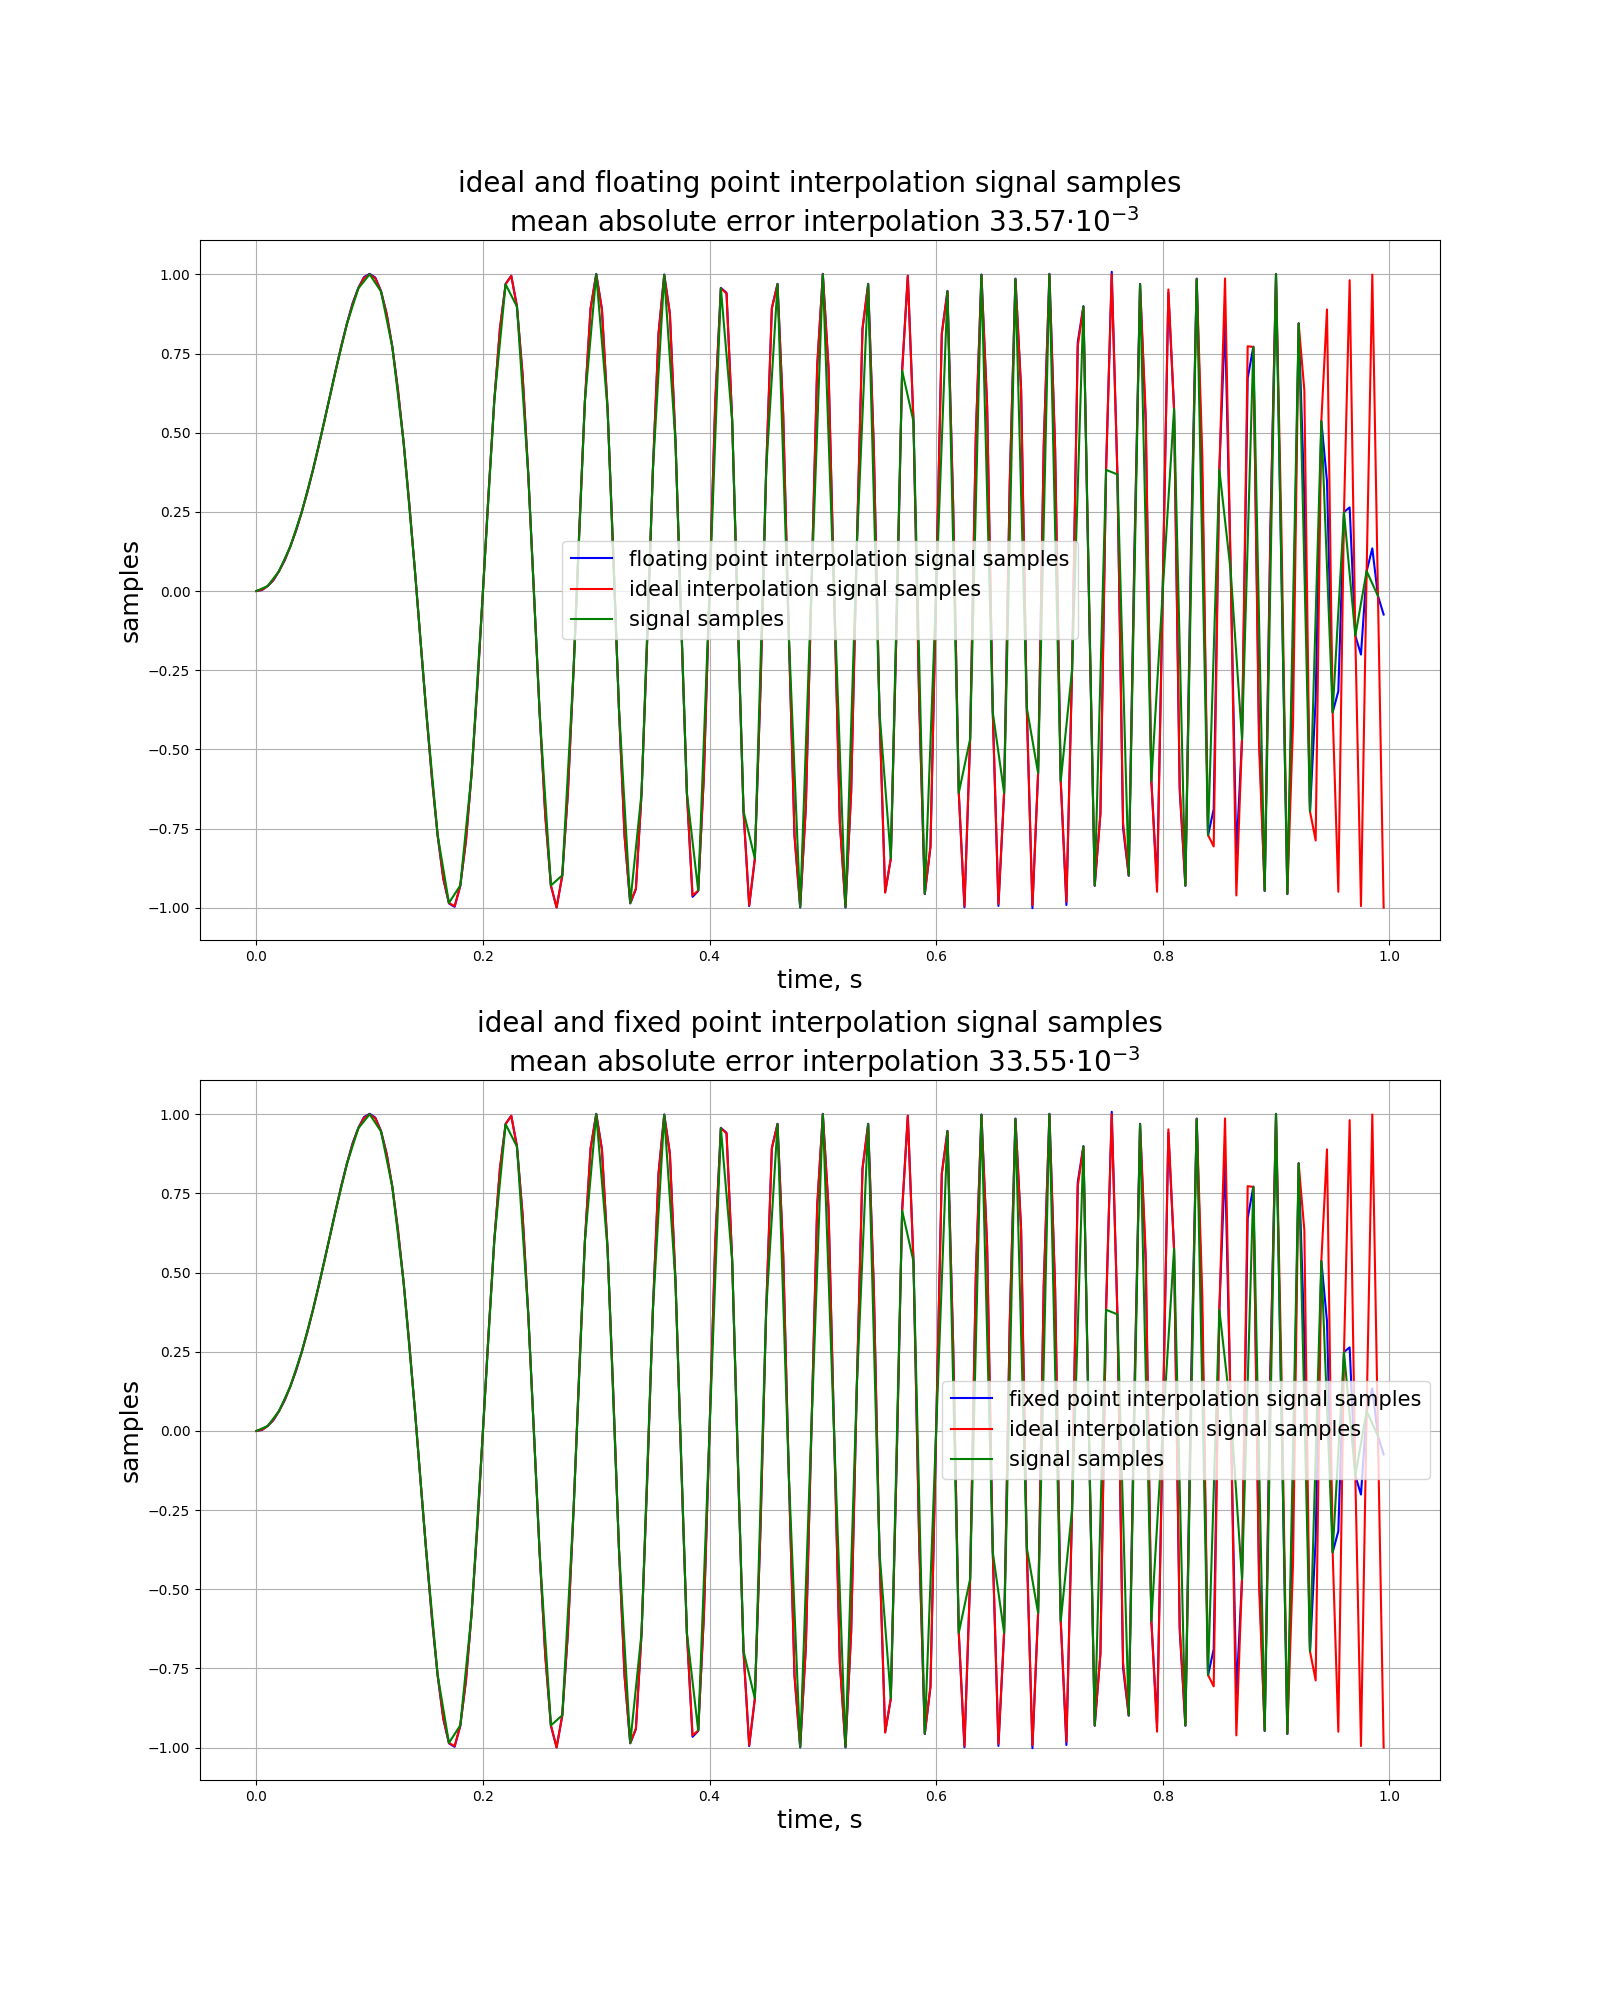
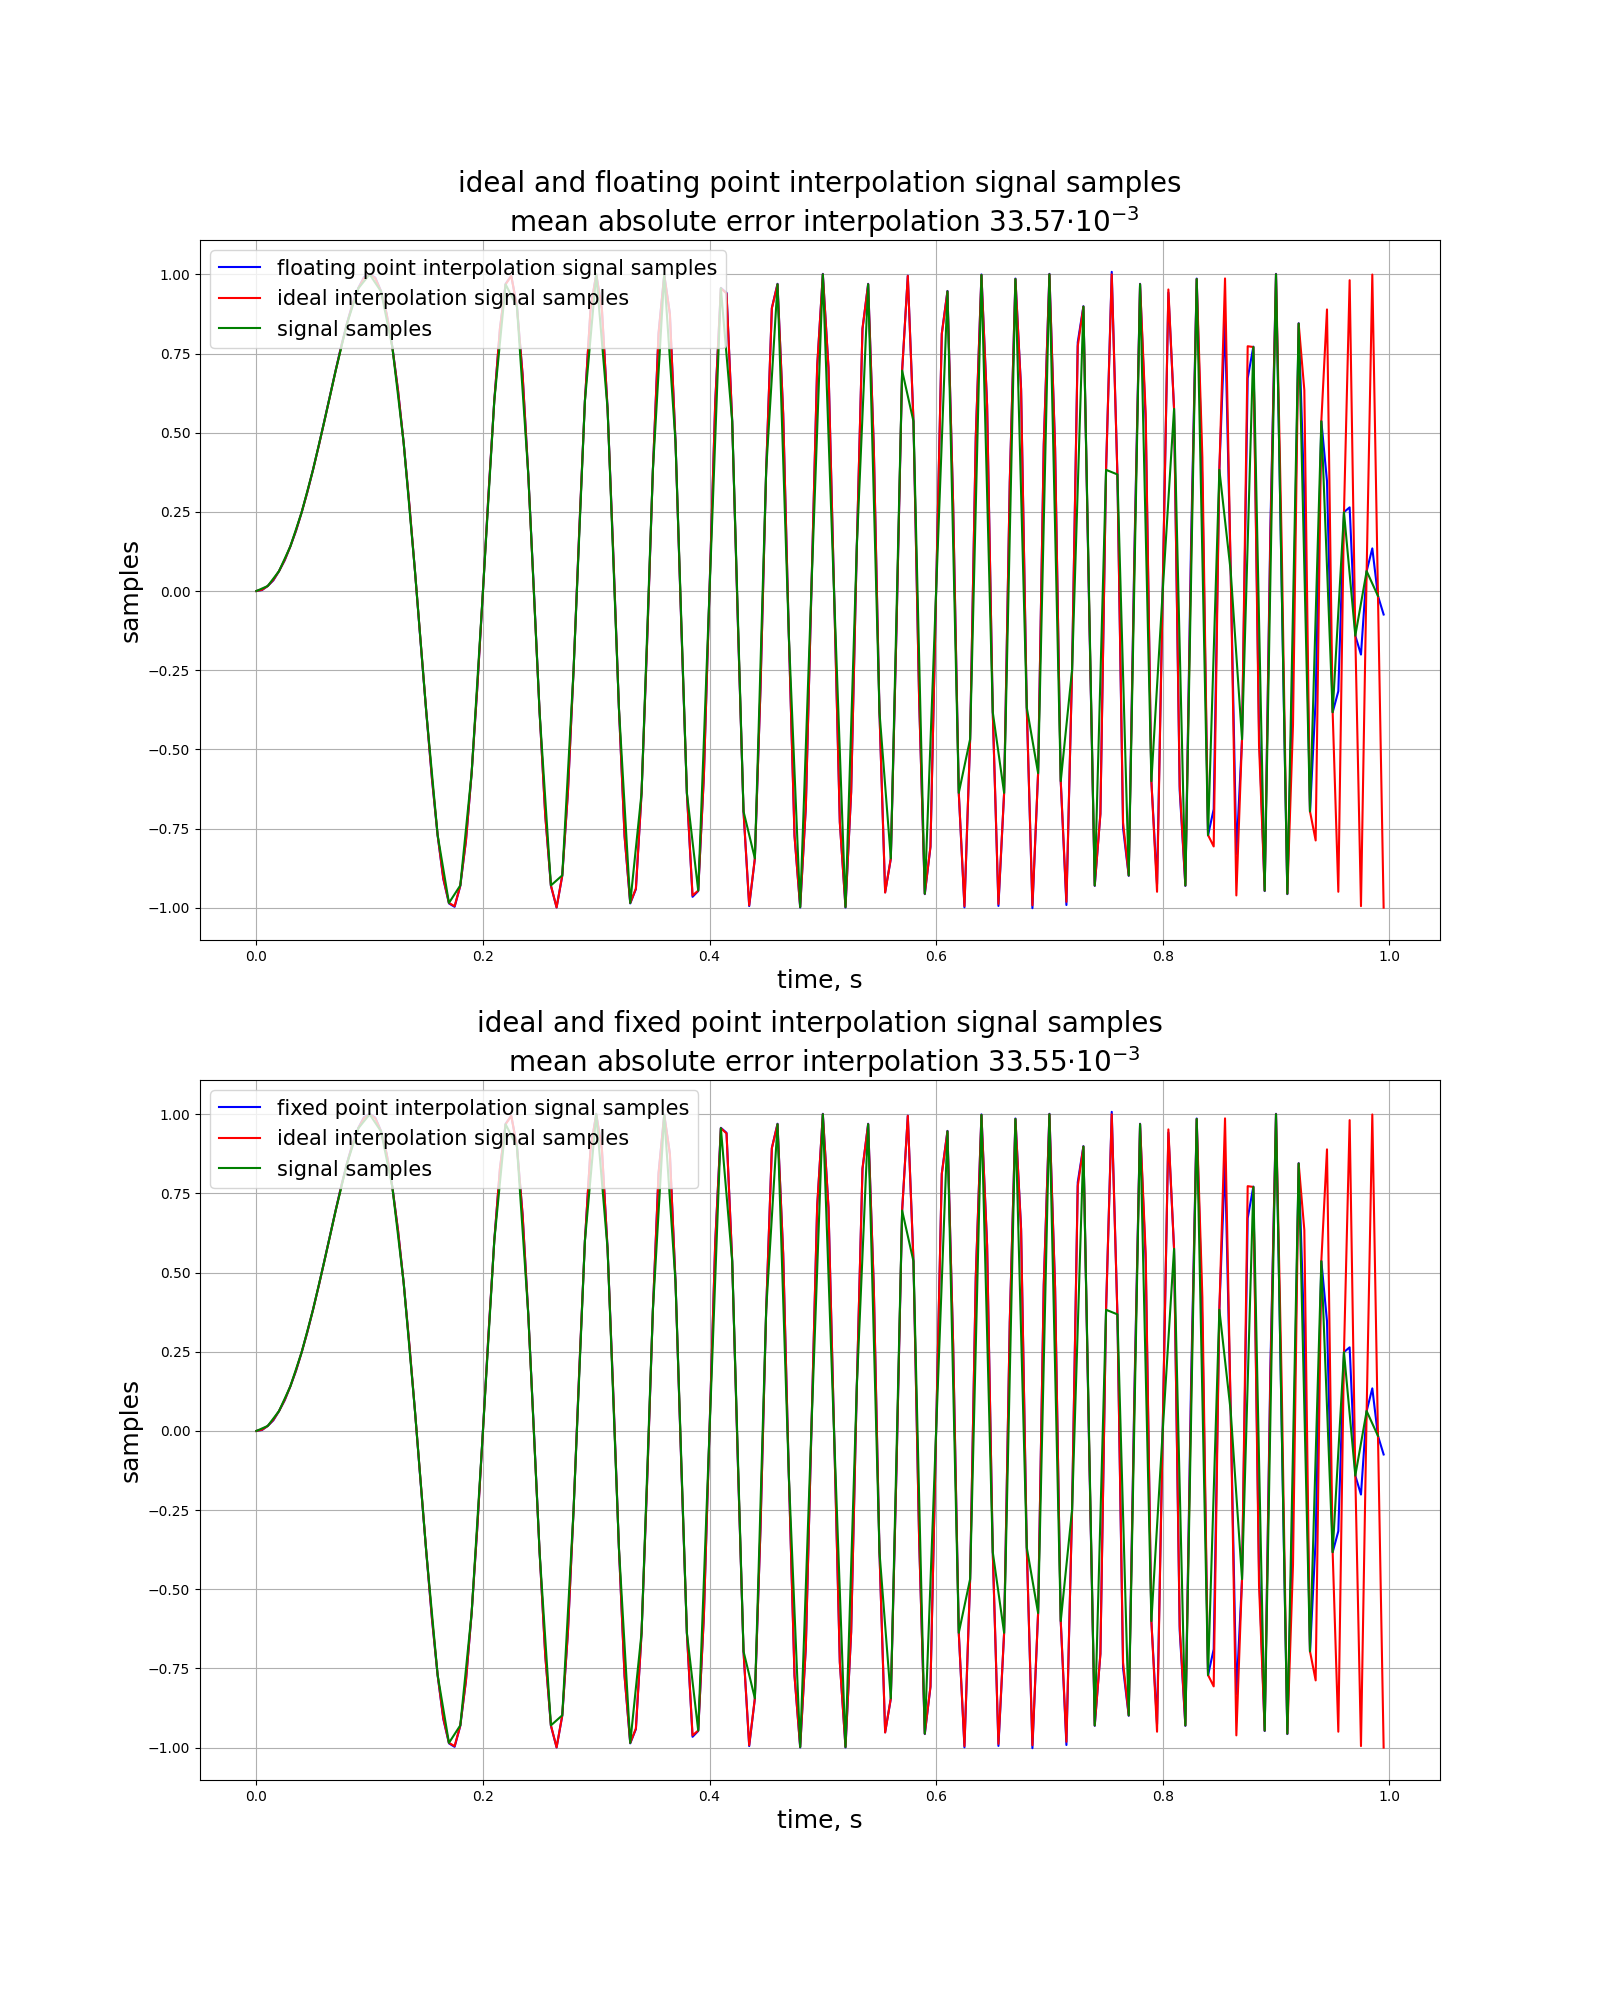
correction README(5)

diff --git a/plot_results.py b/plot_results.py
@@ -31,7 +31,7 @@ def plot_interpolation_abs_error_vs_frequency():
     ax.set_title("Absolute error of floating and fixed point interpolation", fontsize=20)
     ax.set_xlabel("frequency, Hz", fontsize=18)
     ax.set_ylabel("absolute error", fontsize=18)
-    ax.legend(fontsize=15)
+    ax.legend(loc='upper left', fontsize=15)
     ax.grid()
 
     fig.savefig("abs_error_vs_freq.png")
@@ -64,7 +64,7 @@ def plot_signal_and_quantization_samples():
     ax.set_title(f"signal and quantization samples (mse = {mse})", fontsize=20)
     ax.set_xlabel("time, s", fontsize=18)
     ax.set_ylabel("samples", fontsize=18)
-    ax.legend(fontsize=15)
+    ax.legend(loc='upper left', fontsize=15)
     ax.grid()
 
     fig.savefig("signal_and_quantization.png")
@@ -117,7 +117,7 @@ def plot_ideal_and_interpolation_signal():
     ax.set_title(f"ideal and floating point interpolation signal samples\n mean absolute error interpolation {round(sum(df_error["floating_point_interpolation_abs_error"]) / len(df_error["floating_point_interpolation_abs_error"]) * 1e3, 2)}" + r"$\cdot 10^{-3}$", fontsize=20)
     ax.set_xlabel("time, s", fontsize=18)
     ax.set_ylabel("samples", fontsize=18)
-    ax.legend(fontsize=15)
+    ax.legend(loc='upper left', fontsize=15)
     ax.grid()
 
     ax2 = fig.add_subplot(212)
@@ -129,7 +129,7 @@ def plot_ideal_and_interpolation_signal():
     ax2.set_title(f"ideal and fixed point interpolation signal samples\n mean absolute error interpolation {round(sum(df_error["fixed_point_interpolation_abs_error"]) / len(df_error["fixed_point_interpolation_abs_error"]) * 1e3, 2)}" + r"$\cdot 10^{-3}$", fontsize=20)
     ax2.set_xlabel("time, s", fontsize=18)
     ax2.set_ylabel("samples", fontsize=18)
-    ax2.legend(fontsize=15)
+    ax2.legend(loc='upper left', fontsize=15)
     ax2.grid()
 
     fig.savefig("ideal_and_interpolation_signal.png")
@@ -156,7 +156,7 @@ def plot_filter():
     ax.set_title(f"filter samples", fontsize=20)
     ax.set_xlabel("samples", fontsize=18)
     ax.set_ylabel("filter samples", fontsize=18)
-    ax.legend(fontsize=15)
+    ax.legend(loc='upper left', fontsize=15)
     ax.grid()
 
     fig.savefig("filter.png")

diff --git a/README.md b/README.md
@@ -73,7 +73,7 @@
 Первая наша задача - создать синусоидальный сигнал $y(t)$ с непрерывно меняющейся фазой $\varphi(t)$ по частоте $f(t)$:
 
 $$
-y(t) = \sin{\varphi(t)}, \quad \varphi(t) = 2\pi \int_{0}^{t}f(\tau)\text{d}\tau
+y(t) = \sin\left(\varphi(t)\right), \quad \varphi(t) = 2\pi \int_{0}^{t}f(\tau)\text{d}\tau
 $$
 
 Построим $f(t)$. Обозначим количество временных (дискретных) отсчётов по времени $N$ на симуляции длительностью $T$ с частотой дискретизации $f_s$:
@@ -109,13 +109,13 @@ $$
 Получаем:
 
 $$
-y(t) = \sin{2\pi t \cdot (f_{\min} + (f_{\max} - f_{\min}) \cdot \frac{t}{2T})}
+y(t) = \sin\left(2\pi t \cdot (f_{\min} + (f_{\max} - f_{\min}) \cdot \frac{t}{2T})\right)
 $$
 
 В отсчётах:
 
 $$
-y_n = \sin{2\pi \frac{n}{f_s} \cdot (f_{\min} + (f_{\max} - f_{\min}) \cdot \frac{n}{2Tf_s})}
+y_n = \sin\left(2\pi \frac{n}{f_s} \cdot (f_{\min} + (f_{\max} - f_{\min}) \cdot \frac{n}{2Tf_s})\right)
 $$
 
 Вторая задача - квантование синуса в плавающей точке к разрядности сетки в 16 бит. Получается, что на отрезок $[-1; \ 1]$ будет всего $2^{16} - 1$ отсчётов.
@@ -125,13 +125,13 @@ $$
 q_n = round(y_n \cdot (2^{15} - 1)) \in [-32767; \ 32767], \quad \hat{y}_n = \frac{q_n}{2^{15} - 1}
 $$
 
-Третья задача - интерполяцию входного воздействия в 2 раза. Введём интерполированный сигнал $x(t)$, частота дискретизации которого в два раза больше частоты дискретизации $y(t)$:
+Третья задача - интерполяция входного воздействия в 2 раза. Введём интерполированный сигнал $x(t)$, частота дискретизации которого в два раза больше частоты дискретизации $y(t)$:
 
 $$
 f_s^{new} = 2f_s
 $$
 
-Построим $x(t)$, вставляя нули в $y(t)$ на места желаемых отсчётов. После данного действия, спектр исходного сигнала стал в два раза больше, поэтому воспользуемся КИХ-фильтром низких частот с частотой среза:
+Построим $x(t)$, вставляя нули в $\hat{y}(t)$ на места желаемых отсчётов. После данного действия, спектр исходного сигнала стал в два раза больше, поэтому воспользуемся КИХ-фильтром низких частот с частотой среза:
 
 $$
 f_c = \frac{f_s/2}{f_s^{new}}
@@ -158,6 +158,12 @@ h_n^w = h_n \cdot w_n
 $$
 
 После нормируем (для единичного усиления на нулевой частоте) и масштабируем (для компенсации амплитуды при вставке нулей) эти коэффициенты.
+
+Получаем интерполированный сигнал со сдвигом на $M$:
+
+$$
+x_{interpolate}(t) = x(t) * h_w(t) \quad \Longleftrightarrow \quad x_{interpolate}[k] = \sum_{n=0}^{2M}h_w[n]x[k-n], \quad k = 0 \ \ldots \ 2(N + M) - 1
+$$
 
 ## Выводы исследования
 